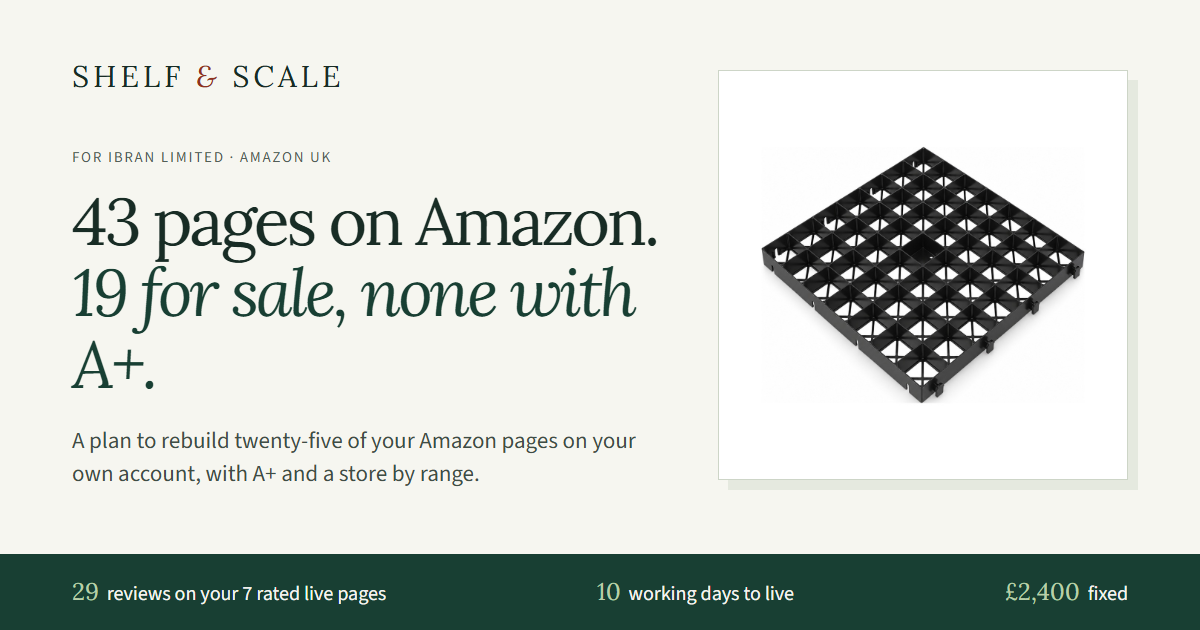
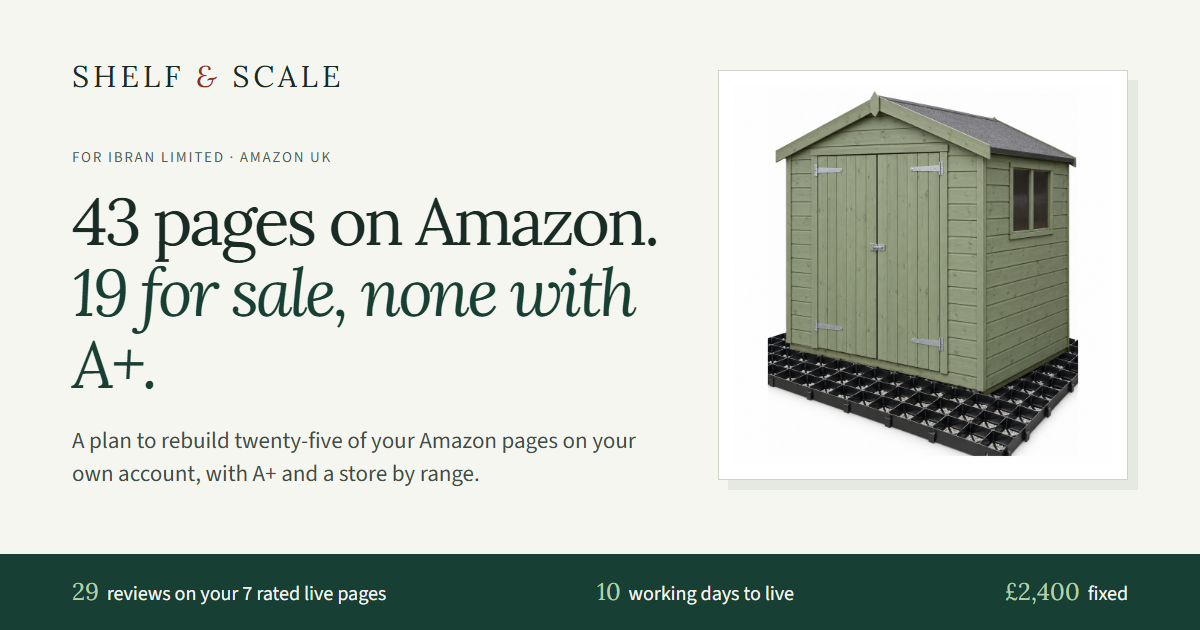
IBRAN: shed-on-base main image, whole-base frame

Changed region(s): [[0.6167, 0.1508, 0.925, 0.7238]]

diff --git a/r/ibran-q4/index.html b/r/ibran-q4/index.html
@@ -47,11 +47,11 @@
     <div class="hero-art">
       <div class="product-sheet">
         <div class="sheet-top"><span class="micro">YOUR 14 × 12 FT BASE · THE NEW MAIN IMAGE</span><span class="sheet-number">B0BYB1S137 · IN STOCK</span></div>
-        <div class="packshot"><img src="img/tile-main-hero.jpg" width="1000" height="1000" alt="Your IBRAN-X grid rebuilt: the black 50 by 50 cm tile on white, filling the frame" fetchpriority="high"></div>
+        <div class="packshot"><img src="img/shed-main-v2-hero.jpg" width="1000" height="1000" alt="Your IBRAN-X base rebuilt as a main image: a wooden shed standing on black square-cell grids with gravel, on white" fetchpriority="high"></div>
         <div class="sheet-product"><span>IBRAN-X PLASTIC SHED BASE GRIDS</span><h2>14 × 12 ft base, 72 grids of 50 × 50 cm</h2><p>No reviews yet · one photo today · £216 · sold by IBRAN LIMITED · the same photo is on nine of your size pages</p></div>
         <div class="sheet-checks"><span><i aria-hidden="true">✓</i> Same account</span><span><i aria-hidden="true">✓</i> Your price</span><span><i aria-hidden="true">✓</i> Rebuilt pages</span></div>
       </div>
-      <div class="art-caption"><span class="micro">MAIN IMAGE</span><span>Built from your own Amazon photograph of the IBRAN-X tile: the same black 50 × 50 × 4 cm grid on white, large in the frame. The page's title today is only its size.</span></div>
+      <div class="art-caption"><span class="micro">MAIN IMAGE</span><span>The base doing its job, not one loose tile: a shed standing on black square-cell grids with gravel, on white, the way the four pages around yours on "shed base" show it. The shed is a prop, as on the other four main images; it is not part of the kit. The page's title today is only its size.</span></div>
     </div>
   </section>
   <!-- THREE NUMBERS -->
@@ -109,7 +109,7 @@
             <article class=""><div class="shelf-img"><img src="img/shelf/t4.jpg" alt="" loading="lazy" width="320" height="320"></div><h4>6ft x 8ft Plastic Grid Shed Base Kit with Weed Membrane, Garden Path, Grass Protection Mats, Greenhouse Pavers – Ideal for Garden Shed, Turf Grass, and Gravel Foundations. SHED NOT INCLUDED</h4><div class="shelf-rating"><span>4.3</span> <span class="stars">★★★★☆</span> <span class="n">(166)</span></div><div class="shelf-bought">100+ bought in past month</div><div class="shelf-price">£70.99</div></article>
             <article class=""><div class="shelf-img"><img src="img/shelf/t5.jpg" alt="" loading="lazy" width="320" height="320"></div><h4>10 ft x 8ft Plastic Grid Shed Base Kit with Weed Membrane, Garden Path, Grass Protection Mats, Greenhouse Pavers – Ideal for Garden Shed, Turf Grass, and Gravel Foundations. SHED NOT INCLUDED</h4><div class="shelf-rating"><span>4.4</span> <span class="stars">★★★★☆</span> <span class="n">(58)</span></div><div class="shelf-price">£105.99</div></article>
           </div>
-          <figcaption>Amazon.co.uk, search "shed base", 12 October 2026, London address. Titles, ratings, review counts and prices in GBP as listed that day; the grey line under a tile carries Amazon's own labels. The green tile is our concept: new main image, new title, your price today, no reviews yet. The other four are real listings, shown as they stand.</figcaption>
+          <figcaption>Amazon.co.uk, search "shed base", 12 October 2026, London address. Titles, ratings, review counts and prices in GBP as listed that day; the grey line under a tile carries Amazon's own labels. The other four main images show a shed standing on the base; ours now does too. The shed is a prop, as on the other four main images; it is not part of the kit. The green tile is our concept: new main image, new title, your price today, no reviews yet. The other four are real listings, shown as they stand.</figcaption>
         </figure>
       </div>
     </div>
@@ -120,7 +120,7 @@
 
 
     <div class="phones-block">
-  <div class="page-head"><span class="page-num">01</span><h3>IBRAN-X shed base, 14 × 12 ft, 72 grids</h3><p>No reviews yet · £216, sold by IBRAN LIMITED · one photo · title is the size only</p><span class="page-asin">B0BYB1S137</span><dl class="page-delta"><div><dt>Title</dt><dd><s>IBRAN-X (14x12ft (4.5x4m - 72 grids))</s><br>IBRAN-X Plastic Shed Base, 14 x 12 ft (4.5 x 4 m): 72 Click-Together Recycled Plastic Grids, 50 x 50 x 4 cm, Free-Draining Base for Sheds, Greenhouses and Log Cabins. The title today is a size; it does not say what the product is. The rebuilt one says what it is, how many pieces, how big each is and what it is for.</dd></div><div><dt>Main image</dt><dd>One photo, a single tile at an angle, the same photo as on eight other size pages → the same tile large in the frame on white, with frames behind it that show what one photo cannot: how tiles join and the base under a shed</dd></div><div><dt>Gallery</dt><dd>One image → seven frames, each answering one question: the tile, how tiles click together, the base under a shed, how many tiles make 14 × 12 ft, what goes under it, the load, the guarantee</dd></div><div><dt>Bullets</dt><dd>Six bullets shared word for word with the other size pages; none says 72, 4.5 × 4 m or what to do with it → six bullets that carry this size: nine tiles by eight make 4.5 × 4 m; 50 × 50 × 4 cm, click-together; free-draining; 500 tonnes per square metre and the 25-year guarantee, as your page says; made in England from 100% recycled plastic</dd></div><div><dt>Category</dt><dd>Garden > Garden Storage & Housing > Sheds on this page; the 12 × 10 ft and the keyword-titled 6 × 4 ft pages sit under Greenhouses, the gravel-grid sizes under Garden Border Edging → one shelf for the shed bases, one for the gravel grids; which node Amazon lets your account use is confirmed before anything is signed</dd></div><div><dt>A+ and store</dt><dd>"Visit the IBRAN Store" on the page, no A+ → A+ below the fold on this and one more hero page; the store arranged by range so shed bases, gravel grids and drains lead to each other</dd></div><div><dt>Offer</dt><dd>Shipper and seller IBRAN LIMITED, £216, in stock → unchanged: your account, your price, your stock. If you want the Prime badge, FBA is quoted separately and you decide</dd></div></dl></div>
+  <div class="page-head"><span class="page-num">01</span><h3>IBRAN-X shed base, 14 × 12 ft, 72 grids</h3><p>No reviews yet · £216, sold by IBRAN LIMITED · one photo · title is the size only</p><span class="page-asin">B0BYB1S137</span><dl class="page-delta"><div><dt>Title</dt><dd><s>IBRAN-X (14x12ft (4.5x4m - 72 grids))</s><br>IBRAN-X Plastic Shed Base, 14 x 12 ft (4.5 x 4 m): 72 Click-Together Recycled Plastic Grids, 50 x 50 x 4 cm, Free-Draining Base for Sheds, Greenhouses and Log Cabins. The title today is a size; it does not say what the product is. The rebuilt one says what it is, how many pieces, how big each is and what it is for.</dd></div><div><dt>Main image</dt><dd>One photo, a single tile at an angle, the same photo as on eight other size pages → a shed standing on the grid base, on white, as on the four pages around it, so the use shows at a glance; the whole 14 × 12 ft base, 72 tiles, is image 2. The shed is a prop, not part of the kit</dd></div><div><dt>Gallery</dt><dd>One image → seven frames, each answering one question: the base under a shed, the whole base, how tiles click together, one tile up close, what goes under it, the load, the guarantee</dd></div><div><dt>Bullets</dt><dd>Six bullets shared word for word with the other size pages; none says 72, 4.5 × 4 m or what to do with it → six bullets that carry this size: nine tiles by eight make 4.5 × 4 m; 50 × 50 × 4 cm, click-together; free-draining; 500 tonnes per square metre and the 25-year guarantee, as your page says; made in England from 100% recycled plastic</dd></div><div><dt>Category</dt><dd>Garden > Garden Storage & Housing > Sheds on this page; the 12 × 10 ft and the keyword-titled 6 × 4 ft pages sit under Greenhouses, the gravel-grid sizes under Garden Border Edging → one shelf for the shed bases, one for the gravel grids; which node Amazon lets your account use is confirmed before anything is signed</dd></div><div><dt>A+ and store</dt><dd>"Visit the IBRAN Store" on the page, no A+ → A+ below the fold on this and one more hero page; the store arranged by range so shed bases, gravel grids and drains lead to each other</dd></div><div><dt>Offer</dt><dd>Shipper and seller IBRAN LIMITED, £216, in stock → unchanged: your account, your price, your stock. If you want the Prime badge, FBA is quoted separately and you decide</dd></div></dl></div>
   <div>
   <div class="ph-toggle" role="tablist" aria-label="Show the page"><button type="button" class="on" data-show="today">Today</button><button type="button" data-show="after">Rebuilt</button></div>
   <div class="phones" data-show="today">
@@ -131,7 +131,7 @@
 
     <figure class="phone after"><div class="ph-device"><div class="ph-screen">
   <div class="ph-status"></div><div class="ph-search"><svg class="ph-back" viewBox="0 0 16 16" fill="none" stroke="#0f1111" stroke-width="1.8" stroke-linecap="round" stroke-linejoin="round"><path d="M10 2 4 8l6 6"/></svg><span class="ph-box"><svg width="13" height="13" viewBox="0 0 16 16" fill="none" stroke="#565959" stroke-width="1.8" stroke-linecap="round"><circle cx="6.8" cy="6.8" r="5"/><path d="m10.5 10.5 4 4"/></svg>Search or ask a question</span><svg width="16" height="14" viewBox="0 0 20 17" fill="none" stroke="#0f1111" stroke-width="1.6" stroke-linejoin="round"><path d="M2 5h3.5l1.5-2.5h6L14.5 5H18v10H2z"/><circle cx="10" cy="10" r="3"/></svg></div>
-  <div class="ph-body"><div class="ph-store"><a>Visit the IBRAN Store</a></div><div class="ph-title">IBRAN-X Plastic <u>Shed Base</u>, 14 x 12 ft (4.5 x 4 m): 72 Click-Together Recycled Plastic Grids, 50 x 50 x 4 cm, Free-Draining Base for <u>Sheds</u>, <u>Greenhouses</u> and Log Cabins</div><div class="ph-img"><img src="img/tile-main.jpg" alt="The page rebuilt: the grid tile large in the frame on white, concept page" loading="lazy" width="800" height="800"><div class="ph-dots"><i class="on"></i><i></i><i></i><i></i><i></i><i></i><i></i><span class="ph-icons"><svg width="16" height="15" viewBox="0 0 24 22" fill="none" stroke="#0f1111" stroke-width="1.8"><path d="M12 20s-9-5.6-9-12a5 5 0 0 1 9-3 5 5 0 0 1 9 3c0 6.4-9 12-9 12z"/></svg><svg width="15" height="15" viewBox="0 0 24 24" fill="none" stroke="#0f1111" stroke-width="1.8" stroke-linecap="round"><circle cx="18" cy="5" r="2.5"/><circle cx="6" cy="12" r="2.5"/><circle cx="18" cy="19" r="2.5"/><path d="m8.2 10.8 7.6-4.6M8.2 13.2l7.6 4.6"/></svg></span></div></div><div class="ph-price"><span class="ph-sym">£</span>216.00</div><div class="ph-avail">In stock</div><div class="ph-save"><span class="ph-btn yellow">Add to Basket</span><span class="ph-btn orange">Buy Now</span></div><div class="ph-nav"><span class="cur"><svg width="20" height="20" viewBox="0 0 24 24" fill="none" stroke="#0f1111" stroke-width="1.7" stroke-linejoin="round"><path d="M3 11 12 3l9 8v10h-6v-6H9v6H3z"/></svg><b>Home</b></span><span><svg width="20" height="20" viewBox="0 0 24 24" fill="none" stroke="#0f1111" stroke-width="1.7"><circle cx="12" cy="8" r="4"/><path d="M4 21a8 8 0 0 1 16 0"/></svg><b>You</b></span><span><svg width="20" height="20" viewBox="0 0 24 24" fill="none" stroke="#0f1111" stroke-width="1.7" stroke-linejoin="round"><path d="M3 4h2l2.5 11h11L21 7H6.5"/><circle cx="9" cy="19" r="1.5"/><circle cx="17" cy="19" r="1.5"/></svg><b>Basket</b></span><span><svg width="20" height="20" viewBox="0 0 24 24" fill="none" stroke="#0f1111" stroke-width="1.7" stroke-linecap="round"><path d="M4 7h16M4 12h16M4 17h16"/></svg><b>Browse</b></span></div><div class="ph-home"></div></div>
+  <div class="ph-body"><div class="ph-store"><a>Visit the IBRAN Store</a></div><div class="ph-title">IBRAN-X Plastic <u>Shed Base</u>, 14 x 12 ft (4.5 x 4 m): 72 Click-Together Recycled Plastic Grids, 50 x 50 x 4 cm, Free-Draining Base for <u>Sheds</u>, <u>Greenhouses</u> and Log Cabins</div><div class="ph-img"><img src="img/shed-main-v2.jpg" alt="The page rebuilt: the whole 72-tile base on white, part filled with gravel, concept page" loading="lazy" width="800" height="800"><div class="ph-dots"><i class="on"></i><i></i><i></i><i></i><i></i><i></i><i></i><span class="ph-icons"><svg width="16" height="15" viewBox="0 0 24 22" fill="none" stroke="#0f1111" stroke-width="1.8"><path d="M12 20s-9-5.6-9-12a5 5 0 0 1 9-3 5 5 0 0 1 9 3c0 6.4-9 12-9 12z"/></svg><svg width="15" height="15" viewBox="0 0 24 24" fill="none" stroke="#0f1111" stroke-width="1.8" stroke-linecap="round"><circle cx="18" cy="5" r="2.5"/><circle cx="6" cy="12" r="2.5"/><circle cx="18" cy="19" r="2.5"/><path d="m8.2 10.8 7.6-4.6M8.2 13.2l7.6 4.6"/></svg></span></div></div><div class="ph-price"><span class="ph-sym">£</span>216.00</div><div class="ph-avail">In stock</div><div class="ph-save"><span class="ph-btn yellow">Add to Basket</span><span class="ph-btn orange">Buy Now</span></div><div class="ph-nav"><span class="cur"><svg width="20" height="20" viewBox="0 0 24 24" fill="none" stroke="#0f1111" stroke-width="1.7" stroke-linejoin="round"><path d="M3 11 12 3l9 8v10h-6v-6H9v6H3z"/></svg><b>Home</b></span><span><svg width="20" height="20" viewBox="0 0 24 24" fill="none" stroke="#0f1111" stroke-width="1.7"><circle cx="12" cy="8" r="4"/><path d="M4 21a8 8 0 0 1 16 0"/></svg><b>You</b></span><span><svg width="20" height="20" viewBox="0 0 24 24" fill="none" stroke="#0f1111" stroke-width="1.7" stroke-linejoin="round"><path d="M3 4h2l2.5 11h11L21 7H6.5"/><circle cx="9" cy="19" r="1.5"/><circle cx="17" cy="19" r="1.5"/></svg><b>Basket</b></span><span><svg width="20" height="20" viewBox="0 0 24 24" fill="none" stroke="#0f1111" stroke-width="1.7" stroke-linecap="round"><path d="M4 7h16M4 12h16M4 17h16"/></svg><b>Browse</b></span></div><div class="ph-home"></div></div>
 </div><img class="ph-frame" src="img/frame/iphone.png" alt="" width="640" height="1283" loading="lazy"></div><figcaption>Rebuilt · your price, your account</figcaption></figure>
 
   </div>
@@ -157,19 +157,19 @@
         <p class="note">The title stays a product name: what it is, what it is made of, how many pieces and how big, what it is for. 165 characters, no word more than twice, nothing the base is not; "click-together", "free-draining", "recycled plastic", the 50 × 50 × 4 cm tile and the 72 grids are all on your page's own bullets and title. The 4.5 × 4 m comes from your title.</p>
       </div>
       <div class="panel">
-        <span class="micro">SEVEN FRAMES, ONE QUESTION EACH · THREE SHOWN FOR THIS PAGE</span>
-        <div class="frames">
-          <div><i>1</i><img src="img/tile-main.jpg" alt="Frame 1 concept: the black grid tile on white" loading="lazy" width="400" height="400"><span><b>What is it</b>Main image: the tile, large, on white</span></div>
-          <div><i>2</i><img src="img/tile-inside-v1.jpg" alt="Frame 2 concept: two tiles clicked together at the edge" loading="lazy" width="400" height="400"><span><b>How do the tiles join</b>Two tiles clicked together, close up</span></div>
-          <div><i>3</i><img src="img/tile-use-v1.jpg" alt="Frame 3 concept: a shed standing on a base of grids filled with gravel" loading="lazy" width="400" height="400"><span><b>What is it for</b>A shed standing on the base</span></div>
+        <span class="micro">SEVEN FRAMES, ONE QUESTION EACH · TWO SHOWN FOR THIS PAGE</span>
+        <div class="frames" style="grid-template-columns:repeat(2,1fr)">
+          <div><i>1</i><img src="img/shed-main-v2.jpg" alt="Frame 1 concept: a wooden shed standing on black square-cell grids with gravel, on white" loading="lazy" width="400" height="400"><span><b>What is it for</b>Main image: a shed standing on the base, on white</span></div>
+          <div><i>2</i><img src="img/base-main.jpg" alt="Frame 2 concept: 72 black grid tiles clicked into one base, part filled with gravel, on white" loading="lazy" width="400" height="400"><span><b>How big is it</b>The whole 14 × 12 ft base, 72 tiles, on white</span></div>
         </div>
         <ol class="frames-rest">
-          <li><i>4</i><b>How big is the base</b> 72 tiles, nine by eight, 4.5 × 4 m, with the tile at 50 × 50 × 4 cm</li>
+          <li><i>3</i><b>How do the tiles join</b> two tiles clicked together at the edge, close up</li>
+          <li><i>4</i><b>What is one tile</b> one 50 × 50 × 4 cm grid up close, seven cells by seven, as on your page today</li>
           <li><i>5</i><b>What goes under it</b> the sub-base steps from your own installation guides</li>
           <li><i>6</i><b>How strong is it</b> 500 tonnes per square metre and the 25-year guarantee, as your page says</li>
           <li><i>7</i><b>What else is there</b> the 6 × 4 ft to 15 × 10 ft sizes, the gravel grids and the drains</li>
         </ol>
-        <p class="note">Frames 1 to 3 are built from your own Amazon photograph of the IBRAN-X tile (frames 1 and 2) and, for the setting of frame 3, a photograph on ibran.com of a shed on a gravel-filled grid base. The tile design is unchanged and nothing is in the frames that the page does not list: the grid tiles, gravel, a shed. The shed in frame 3 is styling, not contents. Frames 4 to 7 are shot or built from your files in the Pilot Wave; every one of the twenty-five pages gets the same seven.</p>
+        <p class="note">Frame 1 shows a shed standing on a square-cell grid base with gravel, the way the four pages around yours on "shed base" show their bases. The shed is a prop, as on the other four main images; it is not part of the kit. Frame 2 is built from your own Amazon photograph of the IBRAN-X tile: the same tile, unchanged, repeated 72 times, nine by eight, the way a 4.5 × 4 m base is laid, with gravel in part of it. Frames 3 to 7 are shot or built from your files in the Pilot Wave; every one of the twenty-five pages gets the same seven.</p>
       </div>
     </div>
   </section>
@@ -306,7 +306,7 @@
         <li><strong>Your website.</strong> ibran.com, read on 12 October 2026 through its public product list: 32 products. Gravel Grids (IBRAN-X40, three colours), Plastic Shed Base Grids, Greenhouse Base Kits, Grass Parking Grids, IBRAN-X30 and X50 grids and the parking-bay marker are the grid lines; Drain Channel three products; PolyBrick six lines; floor and decking tiles; edging two products; weed membrane one. The site says gravel grids are made in the UK from 100% recycled plastic with over 100,000 installations.</li>
         <li><strong>Search phrases.</strong> One year of Amazon UK search data, 1.46 million phrases. The rank shown is the phrase's best weekly position in that year.</li>
         <li><strong>Company.</strong> IBRAN Limited, company number 09194356, incorporated 29 August 2014, active, private limited company, SIC 47910 and 71129; registered office Unit C3, 141 Waterside Road, Hamilton Industrial Estate, Leicester LE5 1TL; one director since incorporation; Companies House, read on 12 October 2026.</li>
-        <li><strong>What is real and what is a concept.</strong> Real: every number, price, rating, search rank and the left phone. Concept: the new title and bullets, the right phone, the three gallery frames and the hero image, built from your own Amazon photograph of the IBRAN-X tile and a photograph on your website. The tile design is unchanged, and nothing is shown that the page does not list. The £216 on the right phone is your price today, not a price we propose. Which pages are edited in place and which are filed new, and whether Amazon lets your account change each one, is confirmed before anything is signed. Titles and bullets follow Amazon's rules and are built for real from your product data and photography once you sign off.</li>
+        <li><strong>What is real and what is a concept.</strong> Real: every number, price, rating, search rank and the left phone. Concept: the new title and bullets, the right phone, the two gallery frames and the hero image. The main image shows a shed on the grid base; the shed is a prop, as on the other four main images; it is not part of the kit. Frame 2 is built from your own Amazon photograph of the IBRAN-X tile, repeated 72 times, nine by eight. The tile design is unchanged, and nothing is shown that the page does not list. The £216 on the right phone is your price today, not a price we propose. Which pages are edited in place and which are filed new, and whether Amazon lets your account change each one, is confirmed before anything is signed. Titles and bullets follow Amazon's rules and are built for real from your product data and photography once you sign off.</li>
       </ul></details>
     </div>
   </section>

diff --git a/r/ibran-q4/og.html b/r/ibran-q4/og.html
@@ -12,5 +12,5 @@ p{font-size:23px;line-height:1.45;color:#3f4d45;margin:24px 0 0}
 .bar b{font-family:'Lora',serif;font-weight:400;font-size:24px;margin-right:8px;color:#b8cfa9}
 </style></head><body><div class="l"><div class="wm">Shelf <i>&amp;</i> Scale</div><div class="eyebrow">FOR IBRAN LIMITED · AMAZON UK</div>
 <h1>43 pages on Amazon. <em>19 for sale, none with A+.</em></h1><p>A plan to rebuild twenty-five of your Amazon pages on your own account, with A+ and a store by range.</p></div>
-<div class="card"><img src="img/tile-main.jpg"></div>
+<div class="card"><img src="img/shed-main-v2.jpg"></div>
 <div class="bar"><span><b>29</b>reviews on your 7 rated live pages</span><span><b>10</b>working days to live</span><span><b>£2,400</b>fixed</span></div></body></html>
